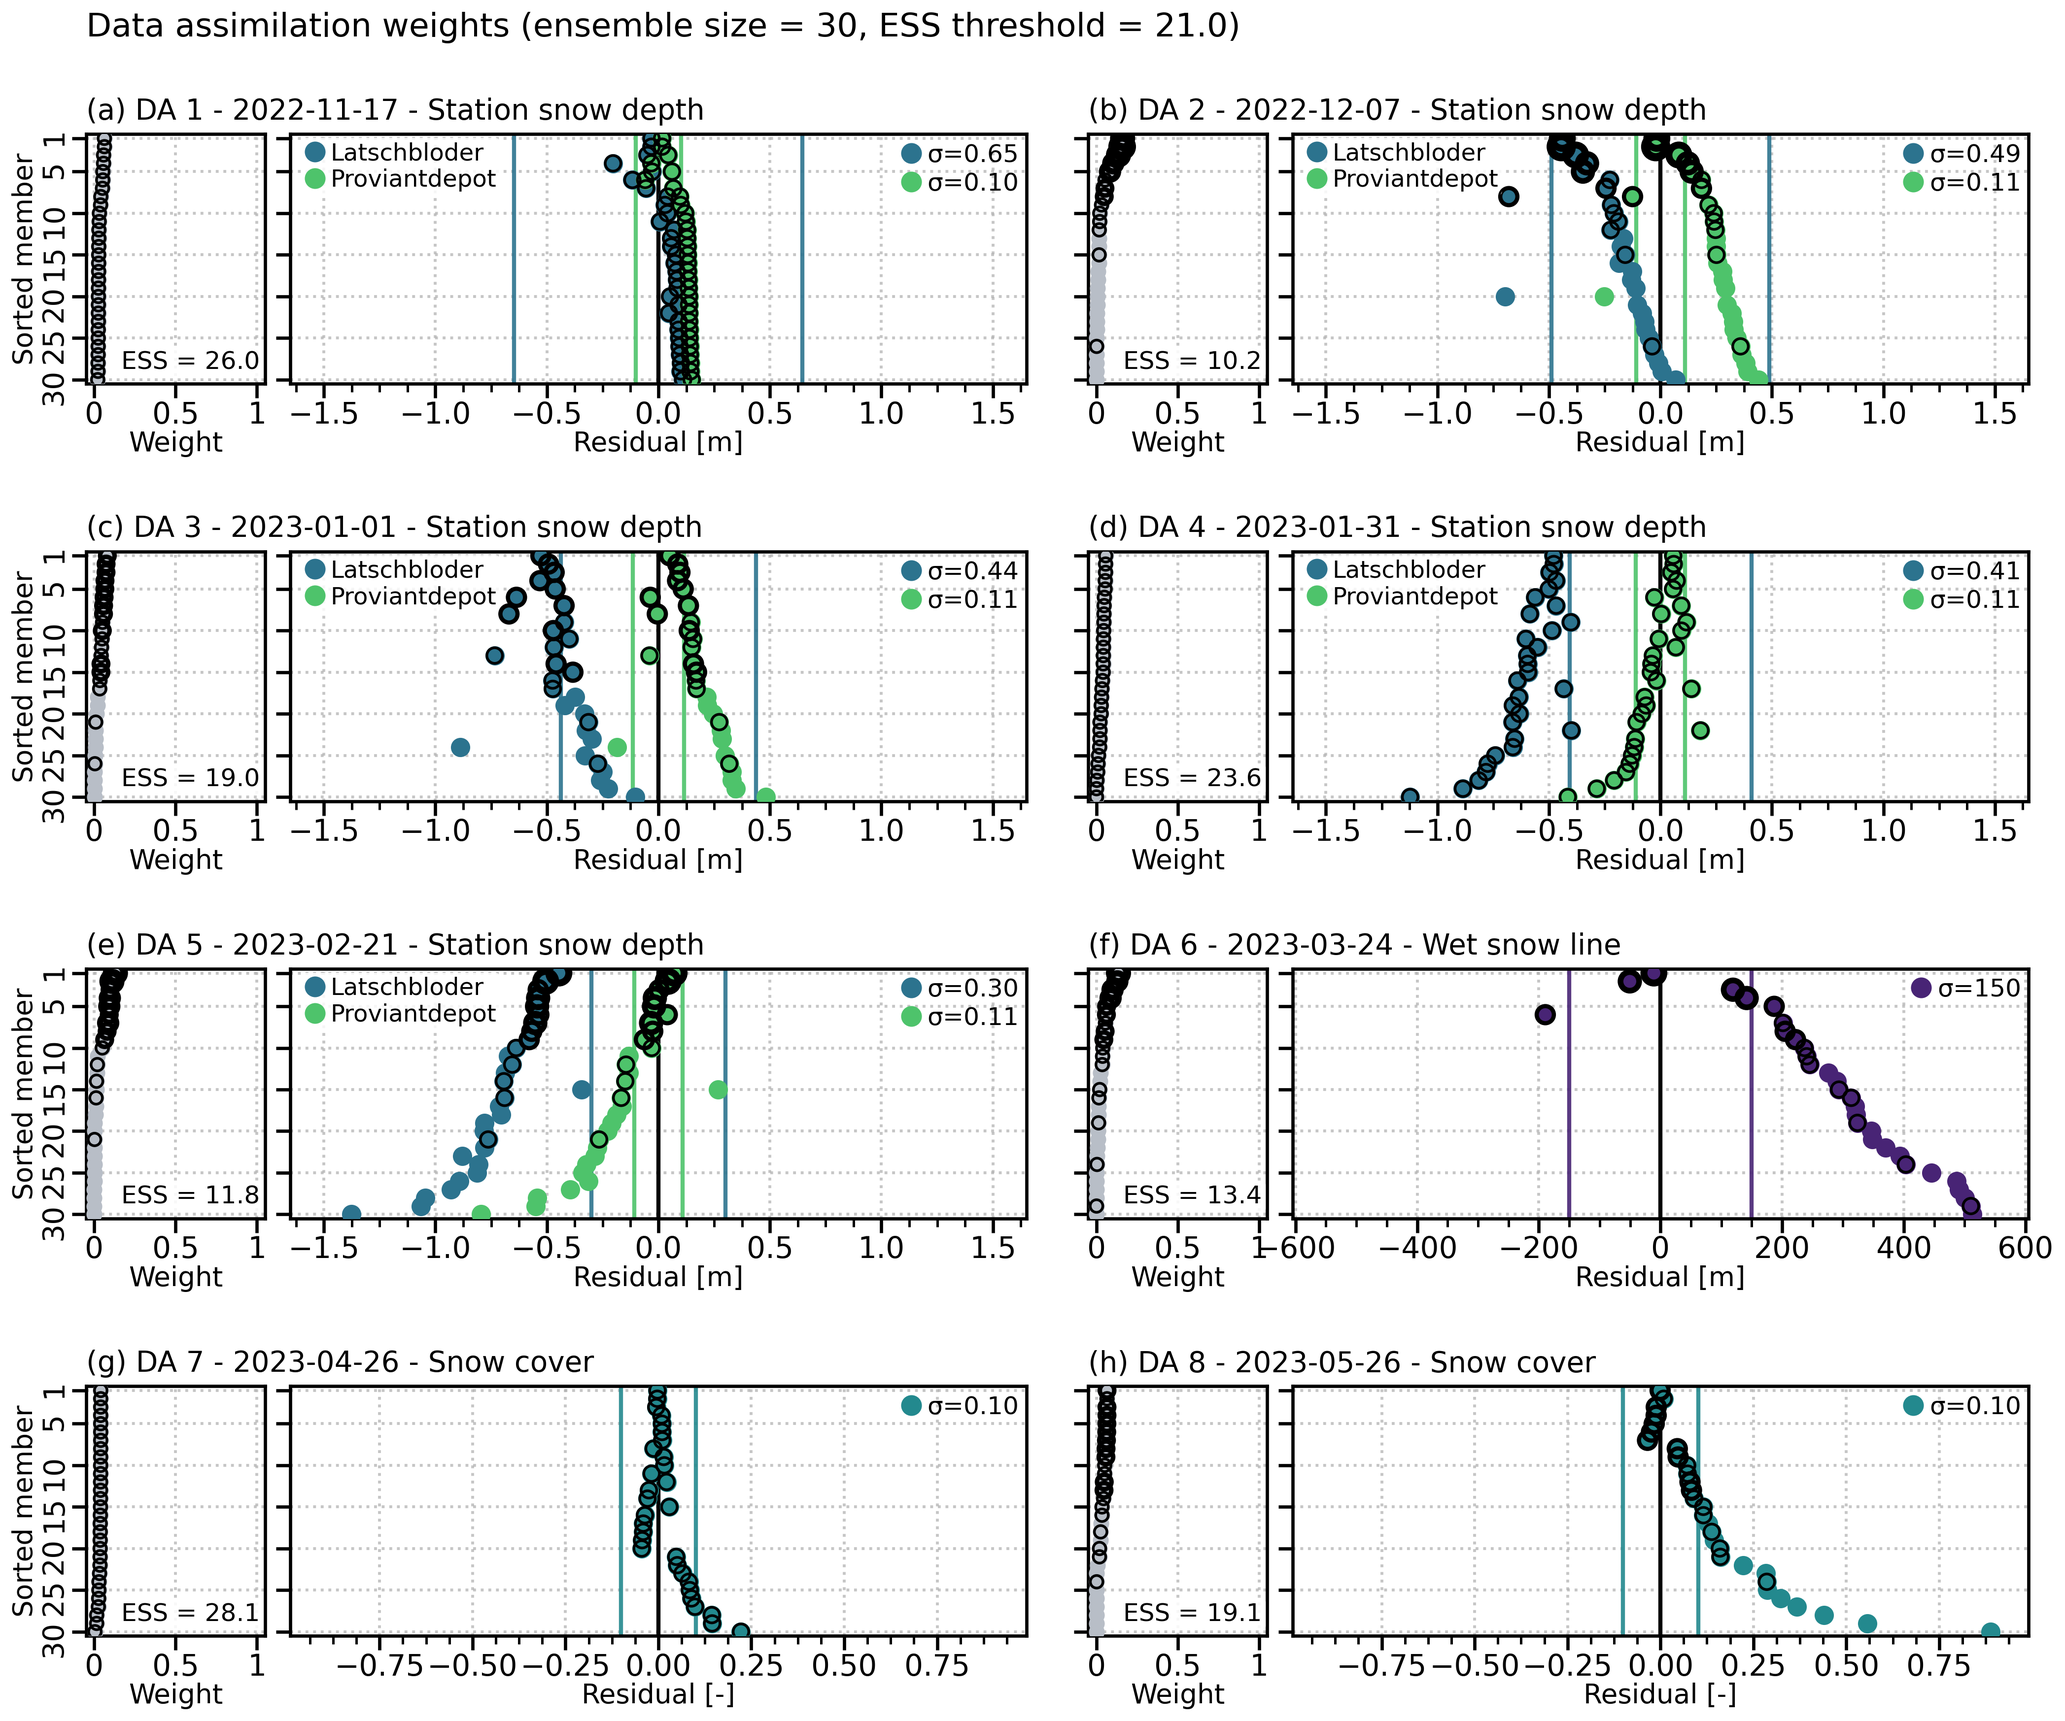
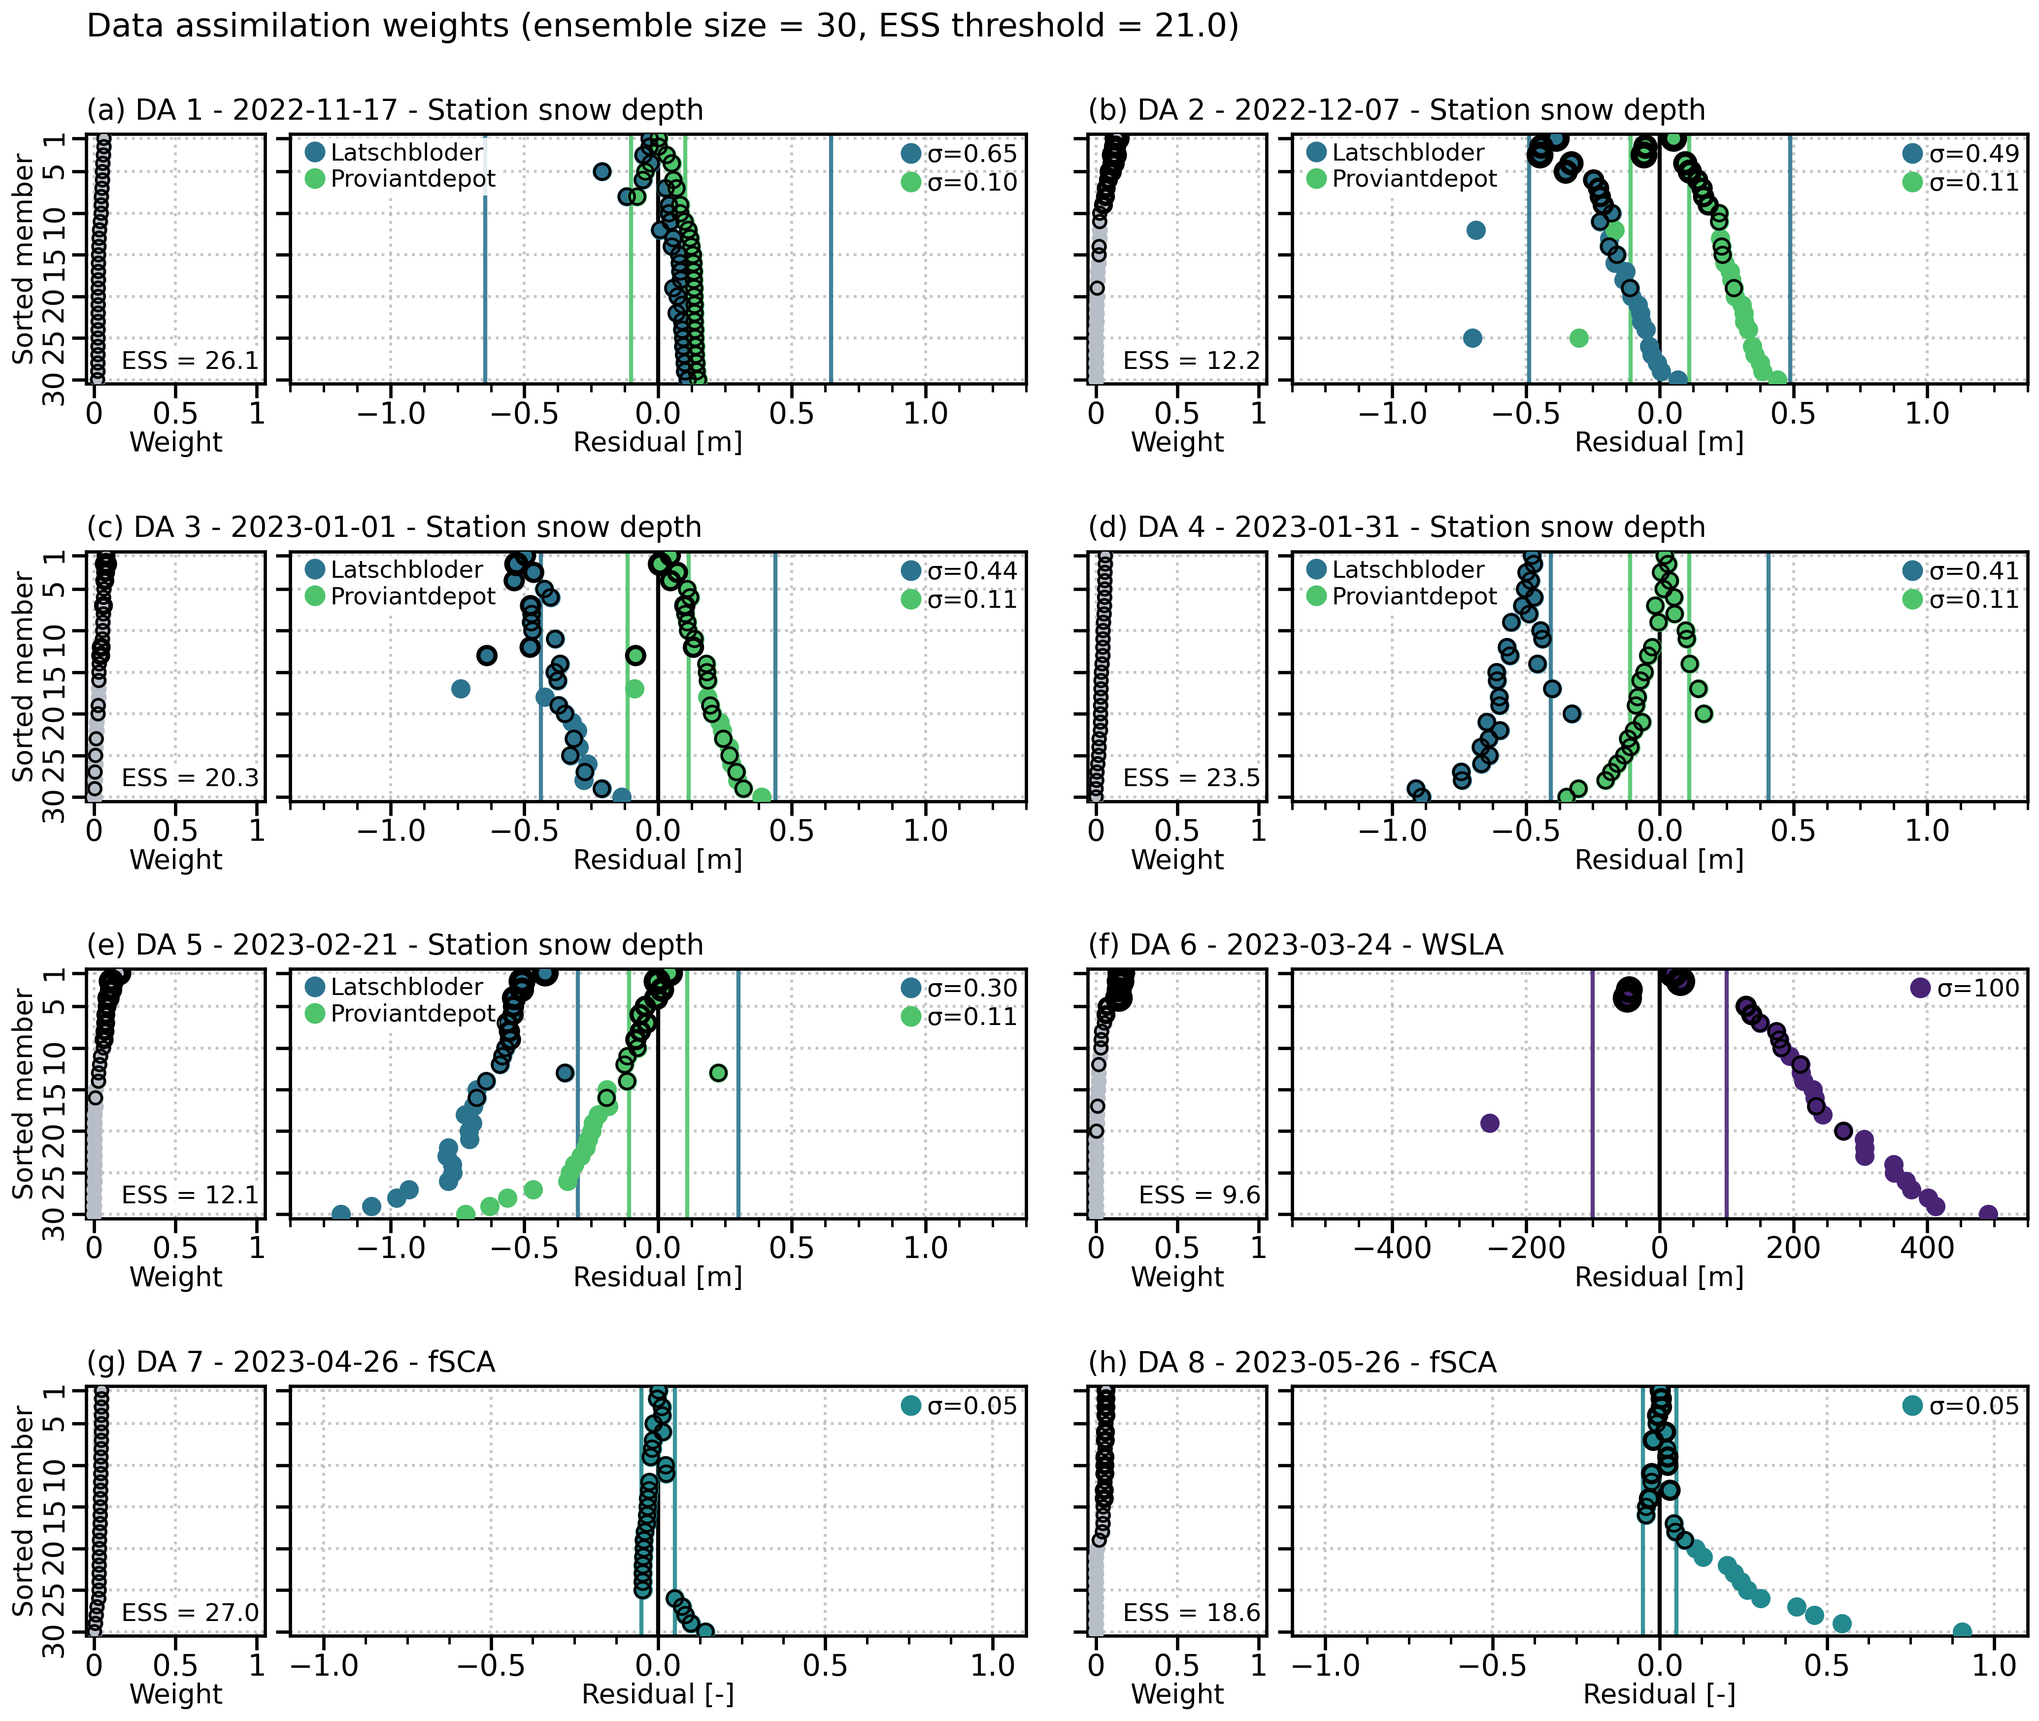
docs: sync Rofental tutorial with final case study

diff --git a/docs/Tutorial/07-results-and-diagnostics.md b/docs/Tutorial/07-results-and-diagnostics.md
@@ -235,7 +235,7 @@ This directory contains the stitched station and ROI point plots for the project
 
 Typical files include:
 
-- `result_overview.png` (SCF, wet-snow, ROI mean SWE, and ROI mean snow depth over time)
+- `result_overview.png` (fSCA, wet-snow, ROI mean SWE, and ROI mean snow depth over time)
 - station snow depth plots
 - station SWE plots
 - ROI envelope exports and land-cover masking report
@@ -258,14 +258,14 @@ Reference structure snippet (`results/plots/points`, typical files)
 - observation dates actually used,
 - model-vs-observation fraction behavior,
 - ROI mean SWE and snow-depth evolution relative to the open loop,
-- whether SCF and wet-snow observations are present where expected.
+- whether fSCA and wet-snow observations are present where expected.
 
-The ROI SWE and snow-depth panels use the full ROI footprint rather than the land-cover-masked ROI used for SCF and wet-snow summaries.
+The ROI SWE and snow-depth panels use the full ROI footprint rather than the land-cover-masked ROI used for fSCA and wet-snow summaries.
 
 What to inspect:
 
 - are observation markers present at the configured data assimilation dates?
-- do SCF and wet-snow events appear in the expected seasonal phases?
+- do fSCA and wet-snow events appear in the expected seasonal phases?
 - are there obvious missing events or suspicious gaps?
 
 ### Station plots (snow depth / SWE)
@@ -282,7 +282,7 @@ What to inspect:
 In this tutorial setup, station SWE observations are expected in **mm** (see project config comment).
 If a curve appears near zero against model SWE, check units first.
 
-Land-cover masking affects how much of the ROI contributes to SCF/wet-snow summaries and
+Land-cover masking affects how much of the ROI contributes to fSCA/wet-snow summaries and
 fractions. This report is useful here because it explains the masking context behind the
 result plots and ROI envelope values shown in this chapter.
 
@@ -302,7 +302,7 @@ How to use this table:
 
 - confirm that excluded/retained classes look plausible for the tutorial ROI
 - check whether `percent_of_roi` suggests over-masking (unexpectedly little usable area)
-- use it as context when SCF/wet-snow fractions look unexpectedly low/high
+- use it as context when fSCA/wet-snow fractions look unexpectedly low/high
 
 Recommended plot files to inspect (Rofental tutorial run):
 
@@ -328,12 +328,12 @@ Result overview:
 
 ![Result overview (Rofental tutorial reference run)]({{ site.baseurl }}/assets/images/tutorial/rofental_2022_2023_es30/result_overview.png)
 
-_`result_overview.png`: check observation dates, SCF/wet-snow event timing, ROI mean SWE / snow-depth behavior, and gross model-vs-observation behavior._
+_`result_overview.png`: check observation dates, fSCA/wet-snow event timing, ROI mean SWE / snow-depth behavior, and gross model-vs-observation behavior._
 
 What to read in this plot:
 
 - whether observation markers exist at the configured data assimilation dates,
-- whether SCF events cluster in snow-cover relevant periods and wet-snow events in melt-season periods,
+- whether fSCA events cluster in snow-cover relevant periods and wet-snow events in melt-season periods,
 - whether ROI mean SWE and snow depth shift away from or back toward the open loop during the season,
 - whether data assimilation moves the ensemble envelope in the expected direction relative to the open loop.
 
@@ -458,17 +458,17 @@ Dimension names in the inspected NetCDF (for example `time1`, `time2`, `snow_lay
 ### Raster output
 
 {: .checks }
-> Generated map examples from the Rofental paper reference run:
+> Generated map examples from the Rofental tutorial reference run:
 > - `results/maps/da_events/da_6.png`: WSLA update on **2023-03-24**
-> - `results/maps/da_events/da_8.png`: SCF update on **2023-05-26**
+> - `results/maps/da_events/da_8.png`: fSCA (`scf`) update on **2023-05-26**
 
 ![Generated DA-event map for the WSLA update on 2023-03-24]({{ site.baseurl }}/assets/images/tutorial/rofental_2022_2023_es30/da_06_wsla_2023_03_24.png)
 
-_`da_6.png`: open loop, prior, posterior and observed elevation-band wet snow fraction / wet snow line diagnostics plus corresponding snow-depth fields for the **2023-03-24** `wet_snow_line` update._
+_`da_6.png`: open loop, prior, posterior and observed wet snow fraction maps with WSLA contours, elevation-band wet snow fraction maps, and corresponding snow-depth fields for the **2023-03-24** `wet_snow_line` update._
 
-![Generated DA-event map for the SCF update on 2023-05-26]({{ site.baseurl }}/assets/images/tutorial/rofental_2022_2023_es30/da_08_scf_2023_05_26.png)
+![Generated DA-event map for the fSCA update on 2023-05-26]({{ site.baseurl }}/assets/images/tutorial/rofental_2022_2023_es30/da_08_scf_2023_05_26.png)
 
-_`da_8.png`: open loop, prior, posterior and observed snow-cover diagnostics plus corresponding snow-depth fields for the **2023-05-26** `scf` update._
+_`da_8.png`: open loop, prior, posterior and observed fSCA diagnostics plus corresponding snow-depth fields for the **2023-05-26** `scf` update._
 
 {: .checks }
 > Note on raster workflow:

diff --git a/docs/Tutorial/05-pre-processing.md b/docs/Tutorial/05-pre-processing.md
@@ -25,7 +25,7 @@ container shell at `/data/rofental`.
 The Rofental example provides three observation groups: `obs/snowcover/` for
 snow-cover fraction rasters, `obs/wetsnow/` for wet-snow masks, and
 `obs/stations/` for station observations plus station-specific DA metadata in
-`stations_da_metadata.csv`. Baseline SCF and wet-snow summaries are shipped under
+`stations_da_metadata.csv`. Baseline fSCA (`scf`) and wet-snow summaries are shipped under
 `obs/summaries/project_2022_2023/`. All preprocessing commands are driven by the
 project YAML. The most important parts are `obs.snowcover`, `obs.wetsnow`,
 `data_assimilation.station`, `data_assimilation.landcover_mask`, and
@@ -252,12 +252,12 @@ step skeleton before regenerating per-step observation CSVs.
 > Rerun `oa-da-project-skeleton --overwrite` every time you change
 > `assimilation_events`. Step windows and observation dates must stay aligned.
 
-## Step 4: Create per-step SCF observation CSVs
+## Step 4: Create per-step fSCA (`scf`) observation CSVs
 
-`oa-da-scf` matches rows from `scf_summary.csv` to the configured SCF events and
+`oa-da-scf` matches rows from `scf_summary.csv` to the configured fSCA (`scf`) events and
 writes one-row `obs_scf_*.csv` files into the matching `steps/*/obs/` folders.
 This is more than a file copy: it validates that the event date exists in the
-summary, belongs to the expected step window, and matches the configured SCF
+summary, belongs to the expected step window, and matches the configured fSCA (`scf`)
 product tag.
 
 **🟢 Run this command:**
@@ -270,14 +270,14 @@ oa-da-scf \
   --log-level INFO
 ```
 
-After the command, expect one SCF observation CSV per configured SCF event under
+After the command, expect one fSCA (`scf`) observation CSV per configured event under
 `/data/rofental/projects/project_2022_2023/steps/*/obs/`. A typical file name is
 `obs_scf_SNOWCOVER_20230426.csv`.
-This one-row file is the actual SCF input consumed later during data assimilation.
+This one-row file is the actual fSCA (`scf`) input consumed later during data assimilation.
 When uncertainty is enabled and matching layers exist, the generated file also
 contains `unc_mean`, `unc_min`, `unc_max`, and `unc_n_valid`.
 
-Reference snippet from a generated SCF observation file:
+Reference snippet from a generated fSCA (`scf`) observation file:
 
 | date | n_valid | n_snow | scf | cloud_fraction | source |
 | --- | --- | --- | --- | --- | --- |
@@ -314,7 +314,7 @@ station files and metadata you already reviewed above.
 
 ![Preprocessing observation flow diagram]({{ site.baseurl }}/assets/images/tutorial/diagrams/preprocessing-observation-flow.svg)
 
-_Flow from input SCF and wet-snow rasters to project summary CSVs, then to the
+_Flow from input fSCA and wet-snow rasters to project summary CSVs, then to the
 per-step observation CSVs consumed by each data assimilation step._
 
 Reference snippet from a generated wet-snow observation file:

diff --git a/examples/README.md b/examples/README.md
@@ -51,7 +51,7 @@ examples/subdomains/
 - `project_*/project_*.yml`: project-level data assimilation configuration and time span.
 - `project_*/maps.yml`: optional custom YAML map recipes for grid-composed project figures such as `setup_overview`. Generated DA-event maps are derived from the project assimilation-event config and written under `results/maps/da_events/`, while custom YAML maps stay at the root of `results/maps/`. Generated DA-event rows use four columns: `open loop`, `prior`, `posterior`, and `reference`. Snow-state reference columns show `posterior - prior` DA increments, while FSC and wet-snow reference columns show the satellite observation. Top-level sub-domain SCF events use a taller same-file layout with snow-cover panels above the snow-depth response. Generated `wet_snow` and `wet_snow_line` DA-event maps include a spatial elevation-band WSF row and draw WSLA contours panel-locally, with observation WSLA only in the observation/reference panel.
 - `sigma_rh` is interpreted as a dew-point-temperature perturbation scale in K for both shipped projects.
-- The shipped `rofental` project uses the promoted tuned `project_2022_2023` baseline: seed `113`, five station snow-depth events, one spring `wet_snow_line` event, and two SCF events with stronger valid-pixel support. It keeps `wet_snow_fraction` as a diagnostic benchmark in the wet-snow summary outputs.
+- The shipped `rofental` project uses the promoted `project_2022_2023` baseline: seed `113`, five station snow-depth events, one spring `wet_snow_line` event on `2023-03-24`, and two fSCA (`scf`) events on `2023-04-26` and `2023-05-26`. It keeps `wet_snow_fraction` as a diagnostic benchmark in the wet-snow summary outputs.
 - The shipped `rofental` project also enables the benchmark stage and adds `station_swe` as an extra benchmark family, so completed runs write `results/benchmark/` plus the headline DA-skill plot `results/plots/assim/scores/performance_scores.png` in addition to the usual DA outputs. Because `station_hs` is assimilated in that project, the resulting `station_swe` benchmark rows appear as `semi_independent` in the benchmark outputs. Station benchmark rows also expose sigma-aware `zSkill`, and the headline plot grows a third panel when those scores are available.
 
 This bundle mirrors the documented setup/project structure and is used by tests and examples.

diff --git a/docs/Tutorial/03-example-data-rofental.md b/docs/Tutorial/03-example-data-rofental.md
@@ -12,6 +12,10 @@ The tutorial uses the bundled Rofental setup as one concrete, reproducible examp
 This page describes that example once so later chapters do not need to repeat the same
 context.
 
+The shipped Rofental forcing is a prepared illustrative baseline. Station precipitation
+has been deliberately reduced to create a controlled mismatch, so the tutorial can show
+particle weighting, resampling and posterior updates clearly.
+
 ![Rofental tutorial setup overview map with DEM, forcing stations, land cover, aspect and SRF]({{ site.baseurl }}/assets/images/tutorial/rofental_2022_2023_es30/setup_overview.png)
 
 *Rofental tutorial setup map rendered from `projects/project_2022_2023/maps.yml`, showing the DEM with forcing stations, the Rofental manuscript land-cover grouping, aspect and the snow redistribution factor (SRF).*
@@ -73,7 +77,7 @@ The corresponding grids are named with the same pattern, for example:
 
 Three observation groups are bundled:
 
-- `obs/snowcover/`: snow-cover fraction rasters
+- `obs/snowcover/`: fractional snow covered area (fSCA) rasters
 - `obs/wetsnow/`: wet-snow mask rasters
 - `obs/stations/`: station snow observations for result plots and validation
 

diff --git a/docs/Tutorial/01-openamundsen-da.md b/docs/Tutorial/01-openamundsen-da.md
@@ -14,14 +14,14 @@ without scattering the same explanations across later pages.
 openAMUNDSEN-DA is built around a simple idea: use snow-observation products to update an
 ensemble of openAMUNDSEN model realizations in a step-wise data assimilation workflow.
 The tutorial uses the single-domain Rofental example and focuses on a mixed workflow with
-station snow-depth, snow-cover fraction, and wet-snow observations.
+station snow-depth, fractional snow covered area (fSCA), and wet-snow observations.
 
 ## The Workflow In One Paragraph
 
 A setup contains the openAMUNDSEN model configuration, input grids, forcing, and
 observation files. Inside that setup, a project YAML defines the time period,
 observation mappings, data assimilation events, and data assimilation settings.
-The shipped Rofental example already includes baseline SCF and wet-snow summary
+The shipped Rofental example already includes baseline fSCA (`scf`) and wet-snow summary
 tables under `obs/summaries/`, while station observations and station DA metadata
 live under `obs/stations/`. Observation rasters can still be reprocessed into
 project summaries and per-step observation CSVs. The project pipeline then runs
